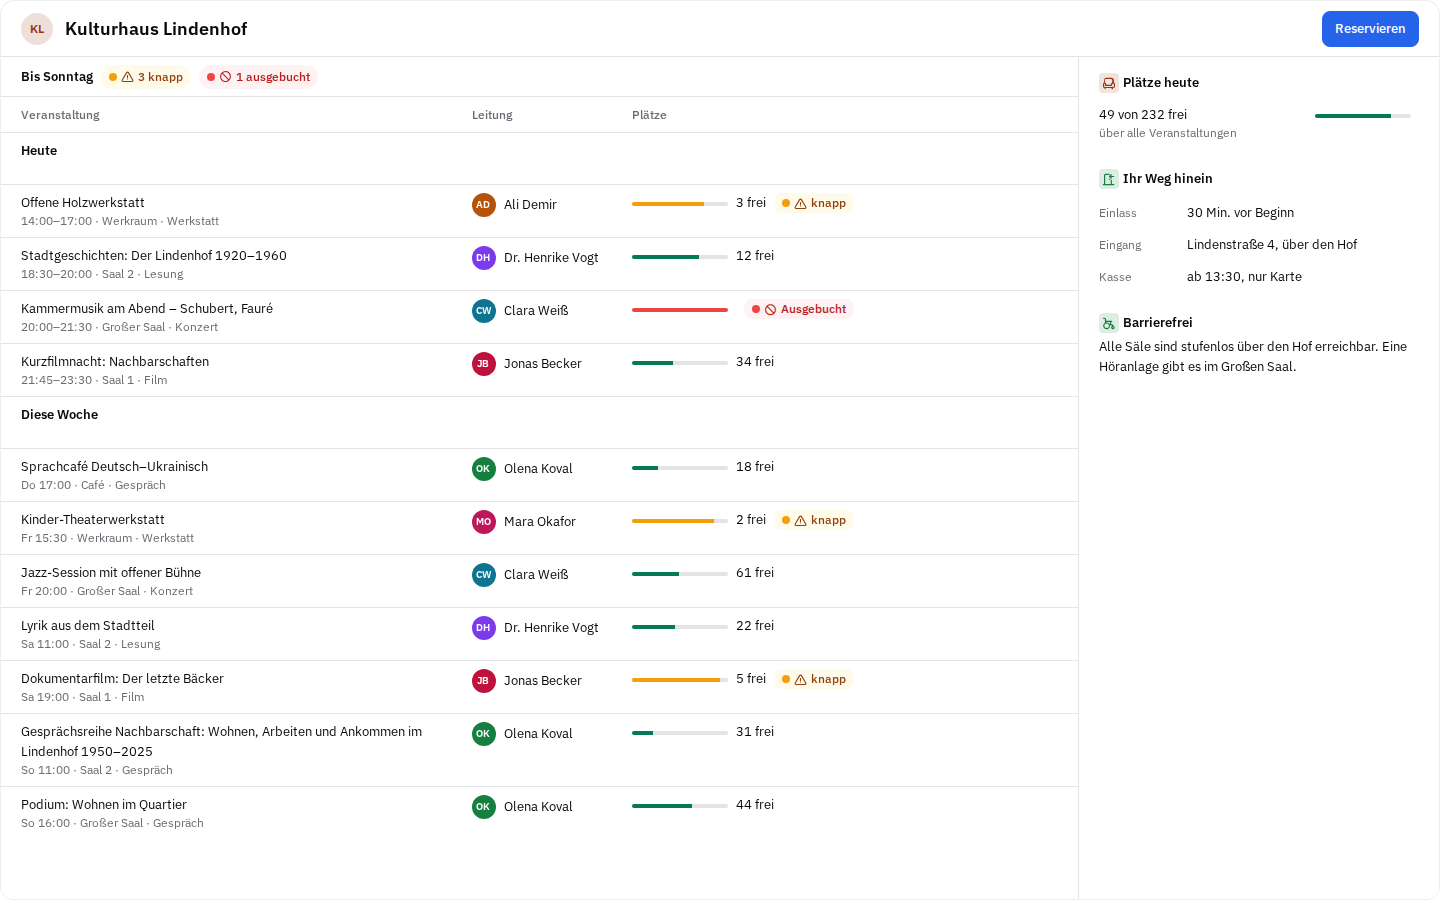
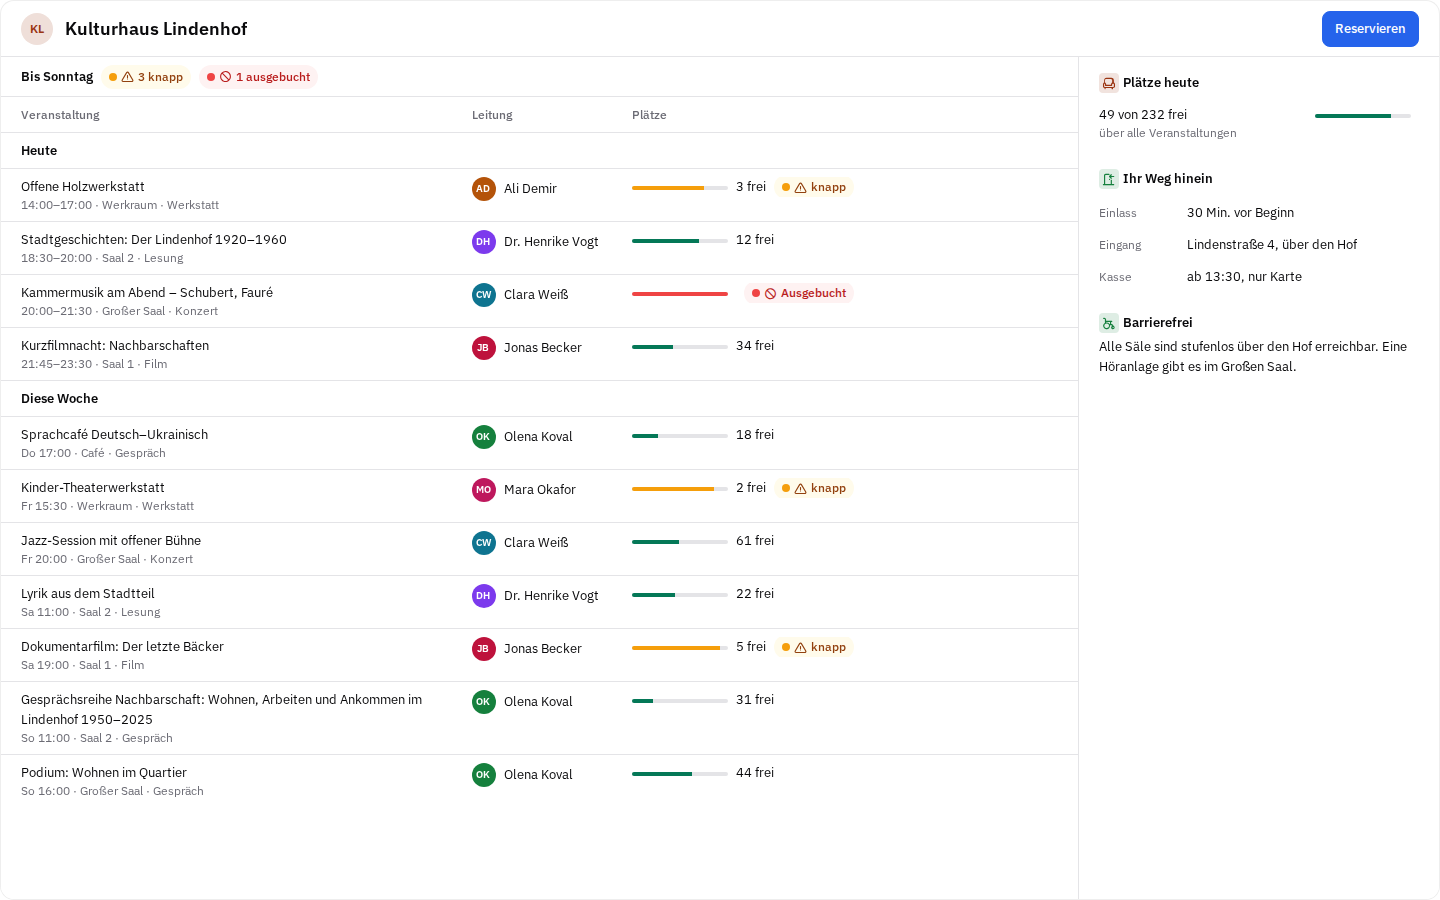
fix(ui): a table's group head is one short line, also beside two-line rows

diff --git a/packages/ui/src/v2/v2.css b/packages/ui/src/v2/v2.css
@@ -1269,6 +1269,13 @@
   padding-block: 8px;
   vertical-align: top;
 }
+/* a group's head row is one short line in every table, as high as the column heads, its words in the middle; it never
+   takes the height of two-line rows */
+.k2-ui .k2-table tr[data-group] > td {
+  height: var(--k2-h-columns);
+  padding-block: 0;
+  vertical-align: middle;
+}
 .k2-ui .k2-table th:first-child,
 .k2-ui .k2-table td:first-child {
   padding-left: var(--k2-edge);
